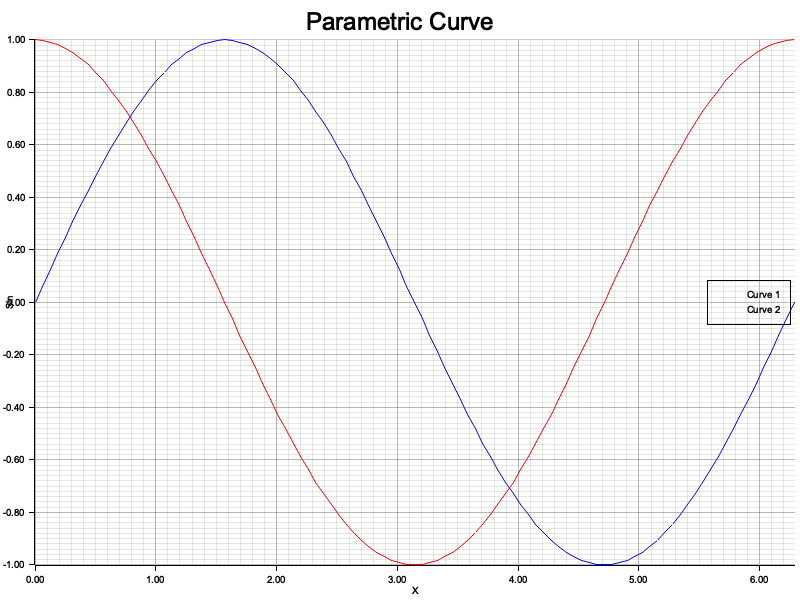
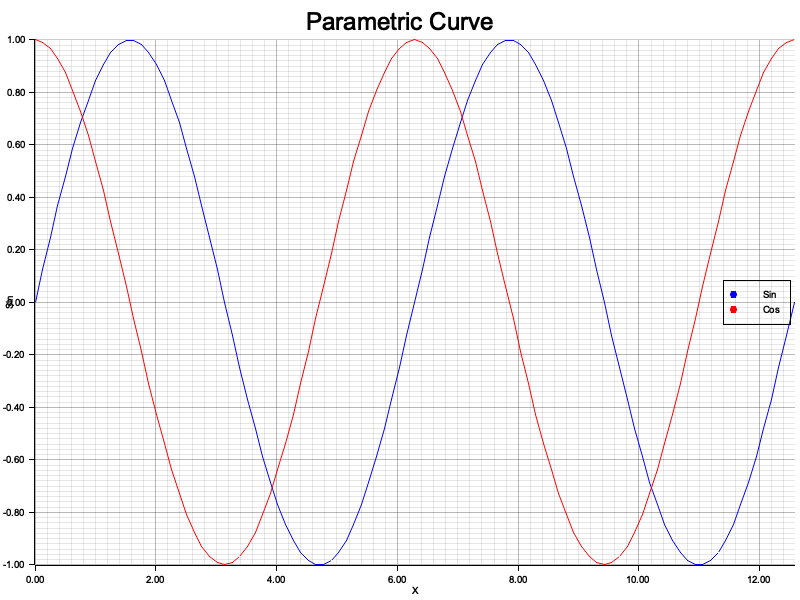
Add support for custom curve names in plots
Updated plotter functionality to allow specifying custom curve names via a new `curve_name` option. Extended the parametric curve example to demonstrate this feature by labeling sine and cosine curves. Improved legend display with customizable labels and colors for better clarity. (ref. #96)

diff --git a/src/curves/visualization/plotters.rs b/src/curves/visualization/plotters.rs
@@ -70,6 +70,9 @@ pub struct PlotOptions {
     pub width: u32,
     /// Plot height
     pub height: u32,
+    /// Curve names
+    pub curve_name: Option<Vec<String>>,
+    
 }
 
 impl PlotOptions {
@@ -96,6 +99,7 @@ impl Default for PlotOptions {
             background_color: RGBColor(255, 255, 255), // White
             width: 800,                                // Dimensión por defecto
             height: 600,                               // Dimensión por defecto
+            curve_name: None,
         }
     }
 }
@@ -132,6 +136,11 @@ impl<T: Plottable> PlotBuilder<T> {
     /// Set y-axis label
     pub fn y_label(mut self, label: impl Into<String>) -> Self {
         self.options.y_label = Some(label.into());
+        self
+    }
+
+    pub fn curve_name(mut self, label: Vec<String>) -> Self {
+        self.options.curve_name = Some(label.into());
         self
     }
 
@@ -476,13 +485,22 @@ impl PlotBuilderExt<Vec<Curve>> for PlotBuilder<Vec<Curve>> {
             })?;
 
         // Determine colors
-        let colors = self
+        let colors: &Vec<RGBColor> = &self
             .options
             .line_colors
-            .unwrap_or_else(PlotOptions::default_colors);
+            .unwrap_or_else(PlotOptions::default_colors);  
 
         // Draw curves
         for (i, points) in all_curve_points.into_iter().enumerate() {
+            let default_name = &format!("Curve {}", i + 1);
+            let label = match &self.options.curve_name {
+                Some(names) => names.get(i).map(|s| s.as_str()).unwrap_or(&default_name),
+                None => default_name,
+            };
+
+            // Clone colors for this iteration
+            let legend_color = colors[i % colors.len()].clone();
+
             chart
                 .draw_series(LineSeries::new(
                     points,
@@ -491,7 +509,11 @@ impl PlotBuilderExt<Vec<Curve>> for PlotBuilder<Vec<Curve>> {
                 .map_err(|e| CurvesError::StdError {
                     reason: e.to_string(),
                 })?
-                .label(format!("Curve {}", i + 1));
+                .label(label)
+                .legend(move |c| {
+                    Circle::new(c, 3, legend_color.filled())
+                })
+            ;
         }
 
         // Add legend

diff --git a/examples/examples_curves/src/bin/parametric_vector_curve.rs b/examples/examples_curves/src/bin/parametric_vector_curve.rs
@@ -11,14 +11,14 @@ fn main() -> Result<(), Box<dyn Error>> {
     let curve_sin = Curve::construct(CurveConstructionMethod::Parametric {
         f: Box::new(|t| Ok(Point2D::new(t, t.sin()))),
         t_start: Decimal::ZERO,
-        t_end: Decimal::TWO_PI,
+        t_end: Decimal::TWO_PI  * Decimal::TWO,
         steps: 100
     })?;
 
     let curve_cos = Curve::construct(CurveConstructionMethod::Parametric {
         f: Box::new(|t| Ok(Point2D::new(t, t.cos()))),
-        t_start: Decimal::ZERO,
-        t_end: Decimal::TWO_PI,
+        t_start: Decimal::ZERO ,
+        t_end: Decimal::TWO_PI * Decimal::TWO,
         steps: 100
     })?;
     
@@ -31,6 +31,7 @@ fn main() -> Result<(), Box<dyn Error>> {
         .x_label("X")
         .y_label("Sin")
         .line_width(1)
+        .curve_name(["Sin".to_string(), "Cos".to_string()].to_vec())
         .save("./Draws/Curves/vector_curve.png")?;
 
     Ok(())
